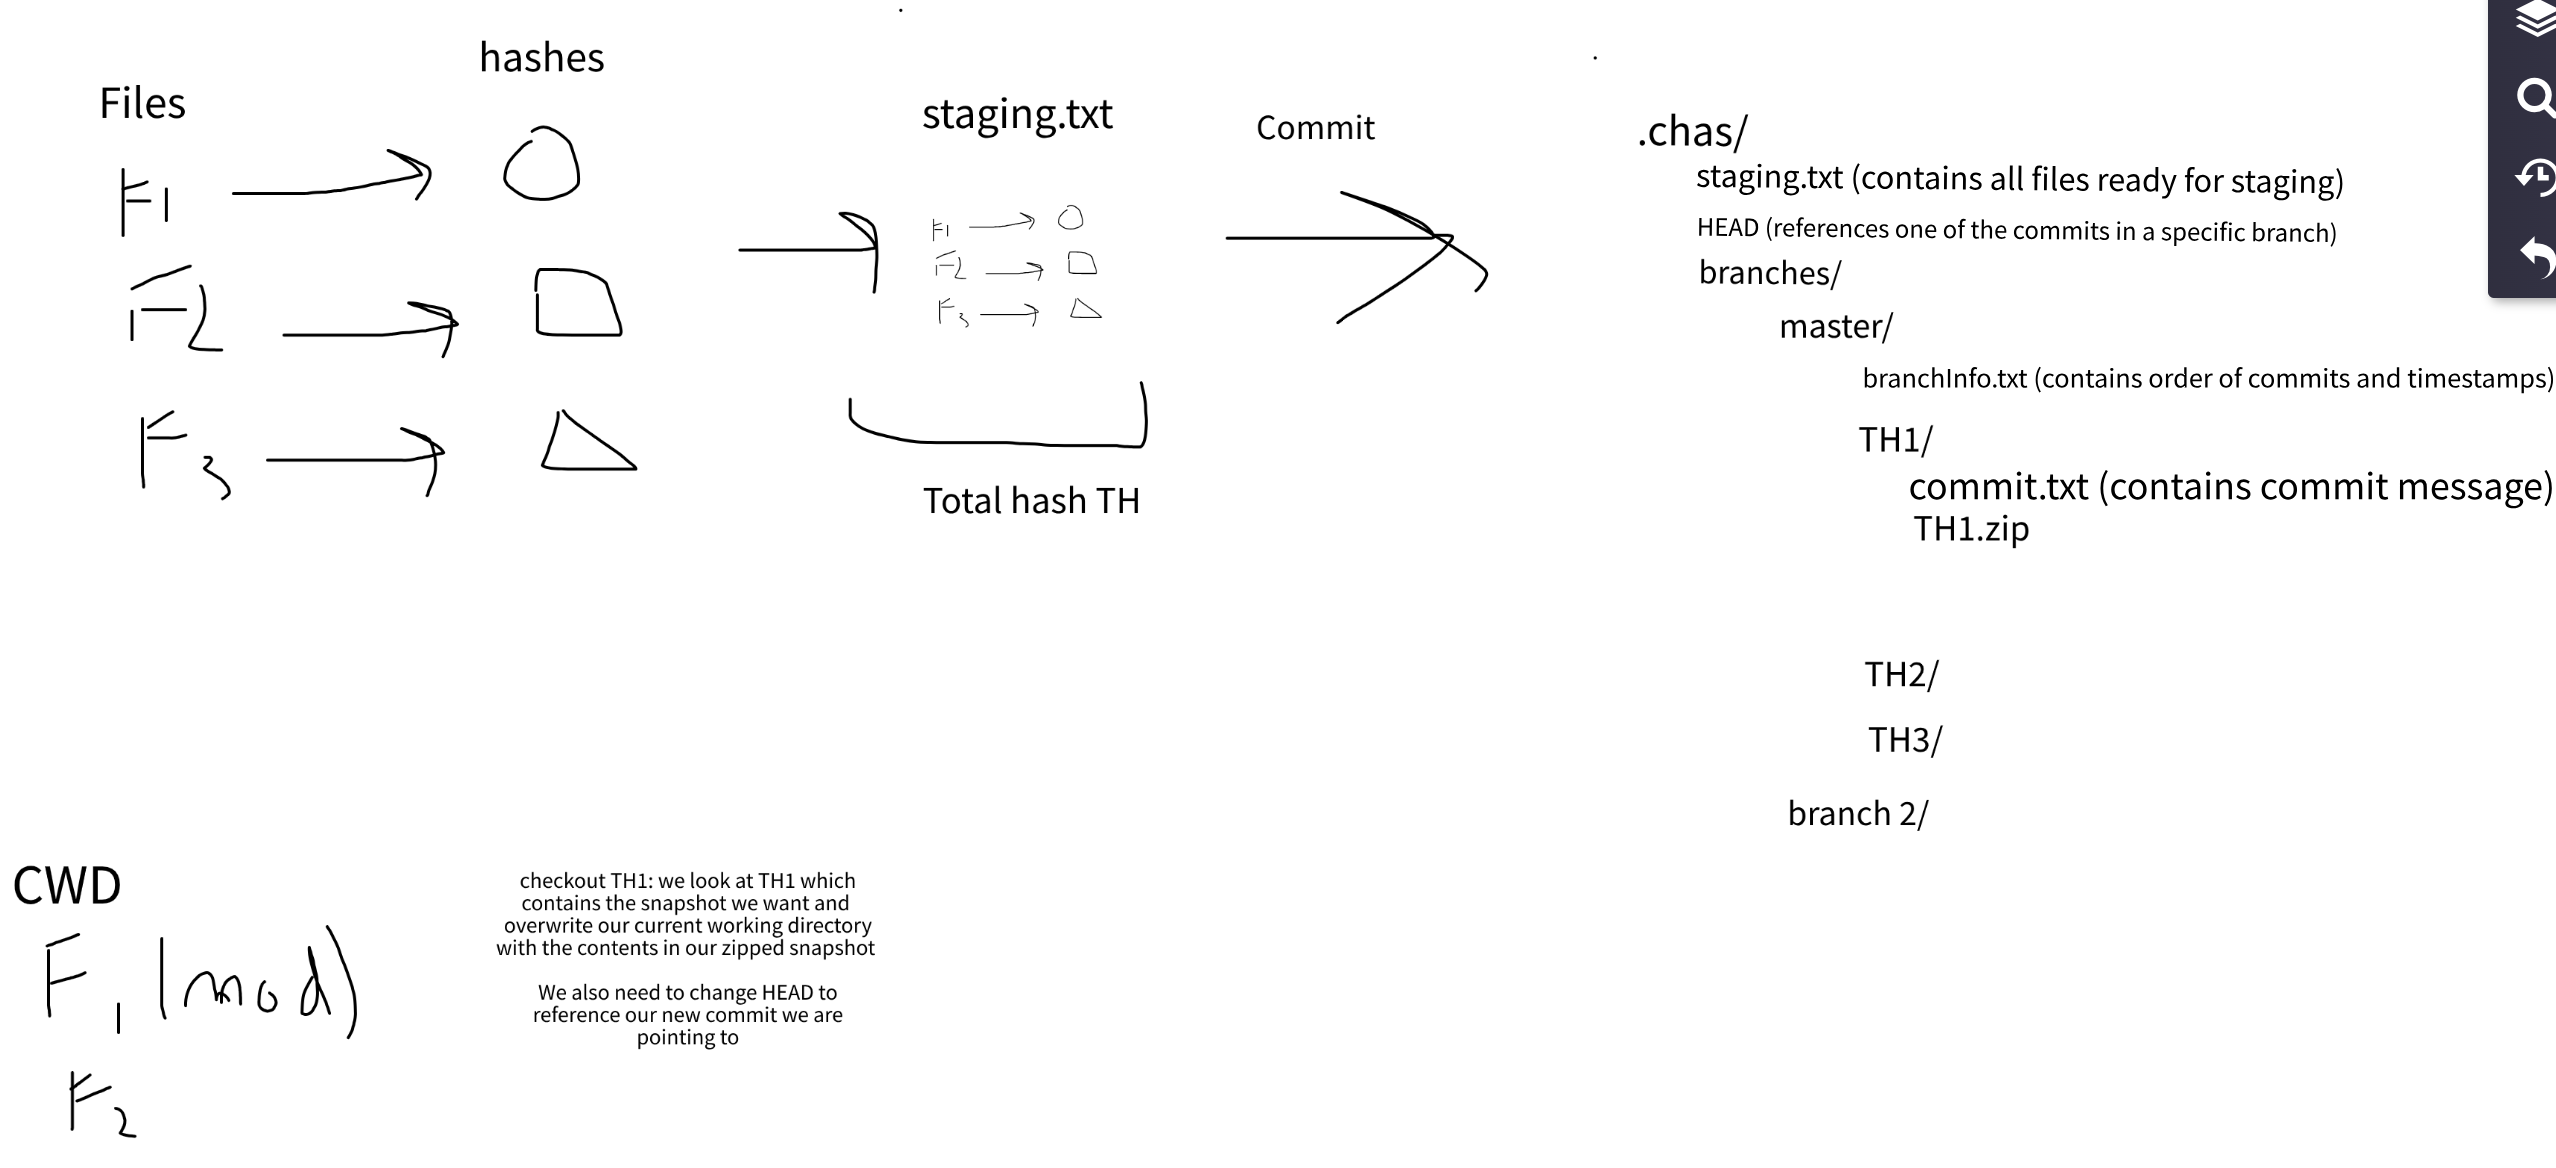
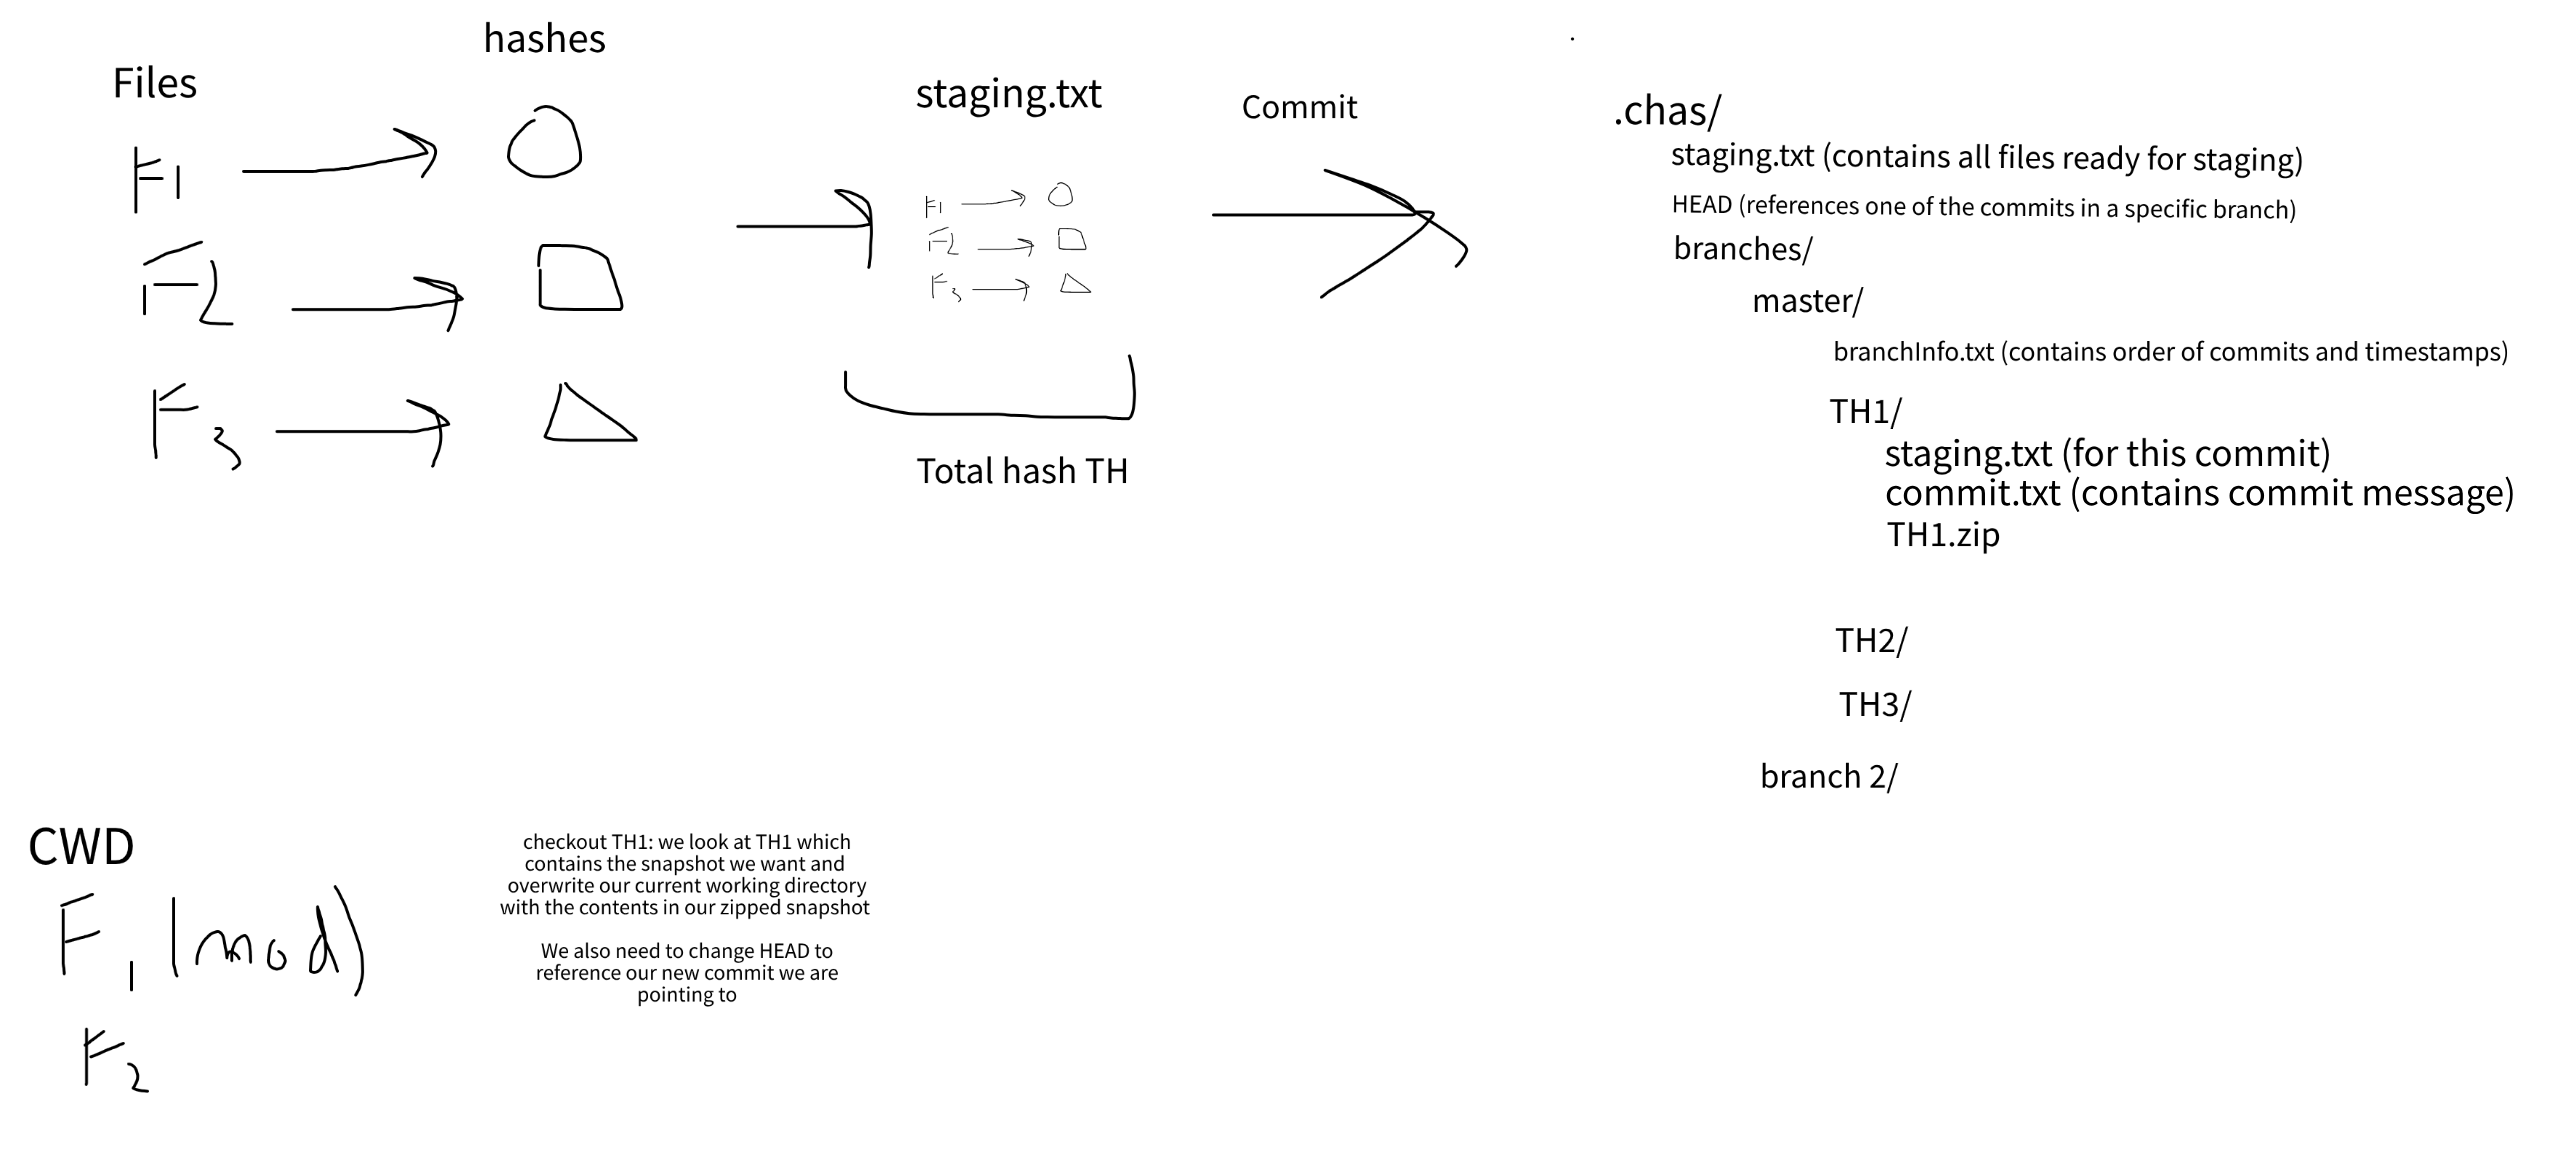
checking out and git status working well. Ensuring staging.txt is updated across different commands

diff --git a/status.c b/status.c
@@ -5,63 +5,125 @@
 #include <openssl/sha.h>
 #include <time.h>
 
-#define BUFFER_SIZE 4096
+
+// Function to check if a file exists
+int file_exists(char *filename) {
+    struct stat buffer;
+    return (stat(filename, &buffer) == 0);
+}
+
+// Function to compute the SHA-1 hash of a file
+void compute_hash(char *filename, unsigned char *result) {
+    FILE *file = fopen(filename, "rb");
+    if (!file) return;
+
+    SHA_CTX shaContext;
+    SHA1_Init(&shaContext);
+
+    char buf[1024];
+    int bytesRead = 0;
+    while ((bytesRead = fread(buf, 1, 1024, file))) {
+        SHA1_Update(&shaContext, buf, bytesRead);
+    }
+
+    SHA1_Final(result, &shaContext);
+
+    fclose(file);
+}
+
 
 int status(){
-    // get the current branch from HEAD file
+    // Where HEAD is pointing, whether that is a branch or a commit (this is where you are "checked out" to)
+    // If you have any changed files in your current directory that have not yet been committed
+    // If changed files are staged or not
 
-    FILE* file;
-    file = fopen(".chas/HEAD", "r");
+    // Read the HEAD file
+    FILE *file = fopen(".chas/HEAD", "r");
+
     if (file == NULL) {
         printf("Error opening file!\n");
         return 1;
     }
 
-    char buffer[BUFFER_SIZE];
+    char buffer[100];
     char currentBranch[100];
-    char currentCommitHash[100];
 
-    while (fgets(buffer, BUFFER_SIZE, file) != NULL) {
+    while (fgets(buffer, 100, file) != NULL) {
         char *token = strtok(buffer, ":");
         if(strcmp(token, "currentBranch") == 0){
             char *branch = strtok(NULL, ":");
             strcpy(currentBranch, branch);
         }
-        if(strcmp(token, "currentHeadLocation") == 0){
-            char *commitHash = strtok(NULL, ":");
-            strcpy(currentCommitHash, commitHash);
-        }
     }
 
     fclose(file);
 
-    // remove the trailing newline from the currentBranch
-    currentBranch[strcspn(currentBranch, "\n")] = 0;
-    currentCommitHash[strcspn(currentCommitHash, "\n")] = 0;
+    // Read the staging.txt file
+    file = fopen(".chas/staging.txt", "r");
 
-    // get the commit hash from the branchInfo.txt file
-    char branchInfoFilePath[100];
-    sprintf(branchInfoFilePath, ".chas/branches/%s/branchInfo.txt", currentBranch);
-
-    file = fopen(branchInfoFilePath, "r");
     if (file == NULL) {
         printf("Error opening file!\n");
         return 1;
     }
 
-    printf("Current Branch: %s\n", currentBranch);
-    printf("Current Commit: %s\n\n", currentCommitHash);
+    printf("Staged files:\n");
 
-    printf("Commits:\n");
-    while (fgets(buffer, BUFFER_SIZE, file) != NULL) {
-        char *message = strtok(buffer, ",");
-        char *commitHash = strtok(NULL, ",");
-        char *time = strtok(NULL, ",");
+    while (fgets(buffer, 100, file) != NULL) {
+        char *token = strtok(buffer, ",");
+        printf("%s\n", token);
+    }
 
-        printf("Message: %s, Commit: %s, Time: %s\n", message, commitHash, time);
+    fclose(file);
+
+    // For each of the files in staging.txt in .chas root, check if the file exists in the current directory
+    // if it does check if the hashes are different. If they are then note that a file has been changed.
+
+
+    file = fopen(".chas/staging.txt", "r");
+    if (!file) {
+        printf("Could not open staging.txt\n");
+        return 1;
+    }
+
+    char line[256];
+    while (fgets(line, sizeof(line), file)) {
+        char *filename = strtok(line, ",");
+        // In order to get next token and to continue with the same string NULL is passed as
+        // first argument since strtok maintains a static pointer to your previous passed string:
+        char *stored_hash = strtok(NULL, ", ");
+        // Remove the newline character from the end of the string
+        stored_hash[strcspn(stored_hash, "\n")] = 0;
+
+        if (file_exists(filename)) {
+            unsigned char hash[SHA_DIGEST_LENGTH];
+            compute_hash(filename, hash);
+
+            char computed_hash[SHA_DIGEST_LENGTH*2+1];
+            for (int i = 0; i < SHA_DIGEST_LENGTH; i++) {
+                sprintf(computed_hash + i*2, "%02x", hash[i]);
+            }
+
+            printf("stored hash: %s, computed hash: %s\n", stored_hash, computed_hash);
+
+            if (strcmp(stored_hash, computed_hash) != 0) {
+                printf("File %s has been changed. Use command './chas add' to track these changes.\n", filename);
+            }
+        }
     }
 
     fclose(file);
 
     return 0;
+    
+
+
+
+
+
+
+    // Check if changed files are staged or not
+
+
+    
+
 }

diff --git a/log.c b/log.c
@@ -1,0 +1,68 @@
+#include <stdio.h>
+#include <stdlib.h>
+#include <string.h>
+#include <sys/stat.h>
+#include <openssl/sha.h>
+#include <time.h>
+
+#define BUFFER_SIZE 4096
+
+// Log is a built in function in C hence named this getLog().
+int getLog(){
+    // get the current branch from HEAD file
+
+    FILE* file;
+    file = fopen(".chas/HEAD", "r");
+    if (file == NULL) {
+        printf("Error opening file!\n");
+        return 1;
+    }
+
+    char buffer[BUFFER_SIZE];
+    char currentBranch[100];
+    char currentCommitHash[100];
+
+    while (fgets(buffer, BUFFER_SIZE, file) != NULL) {
+        char *token = strtok(buffer, ":");
+        if(strcmp(token, "currentBranch") == 0){
+            char *branch = strtok(NULL, ":");
+            strcpy(currentBranch, branch);
+        }
+        if(strcmp(token, "currentHeadLocation") == 0){
+            char *commitHash = strtok(NULL, ":");
+            strcpy(currentCommitHash, commitHash);
+        }
+    }
+
+    fclose(file);
+
+    // remove the trailing newline from the currentBranch
+    currentBranch[strcspn(currentBranch, "\n")] = 0;
+    currentCommitHash[strcspn(currentCommitHash, "\n")] = 0;
+
+    // get the commit hash from the branchInfo.txt file
+    char branchInfoFilePath[100];
+    sprintf(branchInfoFilePath, ".chas/branches/%s/branchInfo.txt", currentBranch);
+
+    file = fopen(branchInfoFilePath, "r");
+    if (file == NULL) {
+        printf("Error opening file!\n");
+        return 1;
+    }
+
+    printf("Current Branch: %s\n", currentBranch);
+    printf("Current Commit: %s\n\n", currentCommitHash);
+
+    printf("Commits:\n");
+    while (fgets(buffer, BUFFER_SIZE, file) != NULL) {
+        char *message = strtok(buffer, ",");
+        char *commitHash = strtok(NULL, ",");
+        char *time = strtok(NULL, ",");
+
+        printf("Message: %s, Commit: %s, Time: %s\n", message, commitHash, time);
+    }
+
+    fclose(file);
+
+    return 0;
+}

diff --git a/checkout.c b/checkout.c
@@ -5,7 +5,7 @@
 #include <openssl/sha.h>
 #include <time.h>
 
-
+// Function to checkout a specific commit on a specific branch (both must be specified)
 int checkout(char* branchName, char* commitHash){
 
     // Delete all the files/folders in the current working directory except the .chas folder
@@ -67,6 +67,23 @@ int checkout(char* branchName, char* commitHash){
     fprintf(file, "\ncurrentHeadLocation:%s", commitHash);
 
     fclose(file);
+
+    // update the staging.txt file with the files from the commit
+    file = fopen(".chas/staging.txt", "w");
+
+    if (file == NULL) {
+        printf("Error opening file!\n");
+        return 1;
+    }
+
+    // copy the staging.txt file from the commit directory to the staging.txt file in the .chas folder
+    char stagingFilePath[100];
+    sprintf(stagingFilePath, "%s/staging.txt", commitFolderName);
+
+    char copyCommand[1000];
+    sprintf(copyCommand, "cp %s %s", stagingFilePath, ".chas/staging.txt");
+
+    system(copyCommand);
 
     return 0;
 }

diff --git a/branch.c b/branch.c
@@ -5,7 +5,7 @@
 #include <openssl/sha.h>
 #include <time.h>
 
-
+// Function to create a new branch
 int branch(char* branchName){
     // check if the branch already exists
     struct stat st = {0};
@@ -49,6 +49,16 @@ int branch(char* branchName){
     }
     // write the current branch
     fprintf(file, "currentBranch:%s", branchName);
+
+    fclose(file);
+
+    // Clean the staging area since we have created a new branch
+    file = fopen(".chas/staging.txt", "w");
+
+    if (file == NULL) {
+        printf("Error opening file!\n");
+        return 1;
+    }
 
     fclose(file);
 

diff --git a/commit.c b/commit.c
@@ -152,5 +152,17 @@ int commit(char* currentBranch, char* message[]) {
 
     fclose(file);
 
+    // copy staging.txt to the commit directory
+    char stagingFilePath[100];
+    sprintf(stagingFilePath, ".chas/staging.txt");
+    
+    char stagingCopyFilePath[100];
+    sprintf(stagingCopyFilePath, "%s/staging.txt", commitFolderName);
+
+    char copyCommand[1000];
+    sprintf(copyCommand, "cp %s %s", stagingFilePath, stagingCopyFilePath);
+
+    system(copyCommand);
+
     return 0;
 }

diff --git a/main.c b/main.c
@@ -9,6 +9,7 @@
 #include "commit.h"
 #include "checkout.h"
 #include "branch.h"
+#include "log.h"
 #include "status.h"
 
 #define BUFFER_SIZE 4096
@@ -154,11 +155,10 @@ int main(int argc, char* argv[]){
     if(strcmp(argv[1], "status") == 0){
         
         return status();
-
     }
 
     if(strcmp(argv[1], "log") == 0){
-        printf("log\n");
+        return getLog();
     }
 
 

diff --git a/log.h b/log.h
@@ -1,0 +1,1 @@
+int getLog();

diff --git a/README.md b/README.md
@@ -22,3 +22,7 @@
 - The code is written in C, and when compiled produces a `chas` executable
 - This executable will need to be put in the directory we are using the chas commands in.
 - Example usage: `./chas init`,`./chas add file.txt`
+
+
+## TODO
+- Need ability to track/commit directories. Should be trivial, just need to store the path.
